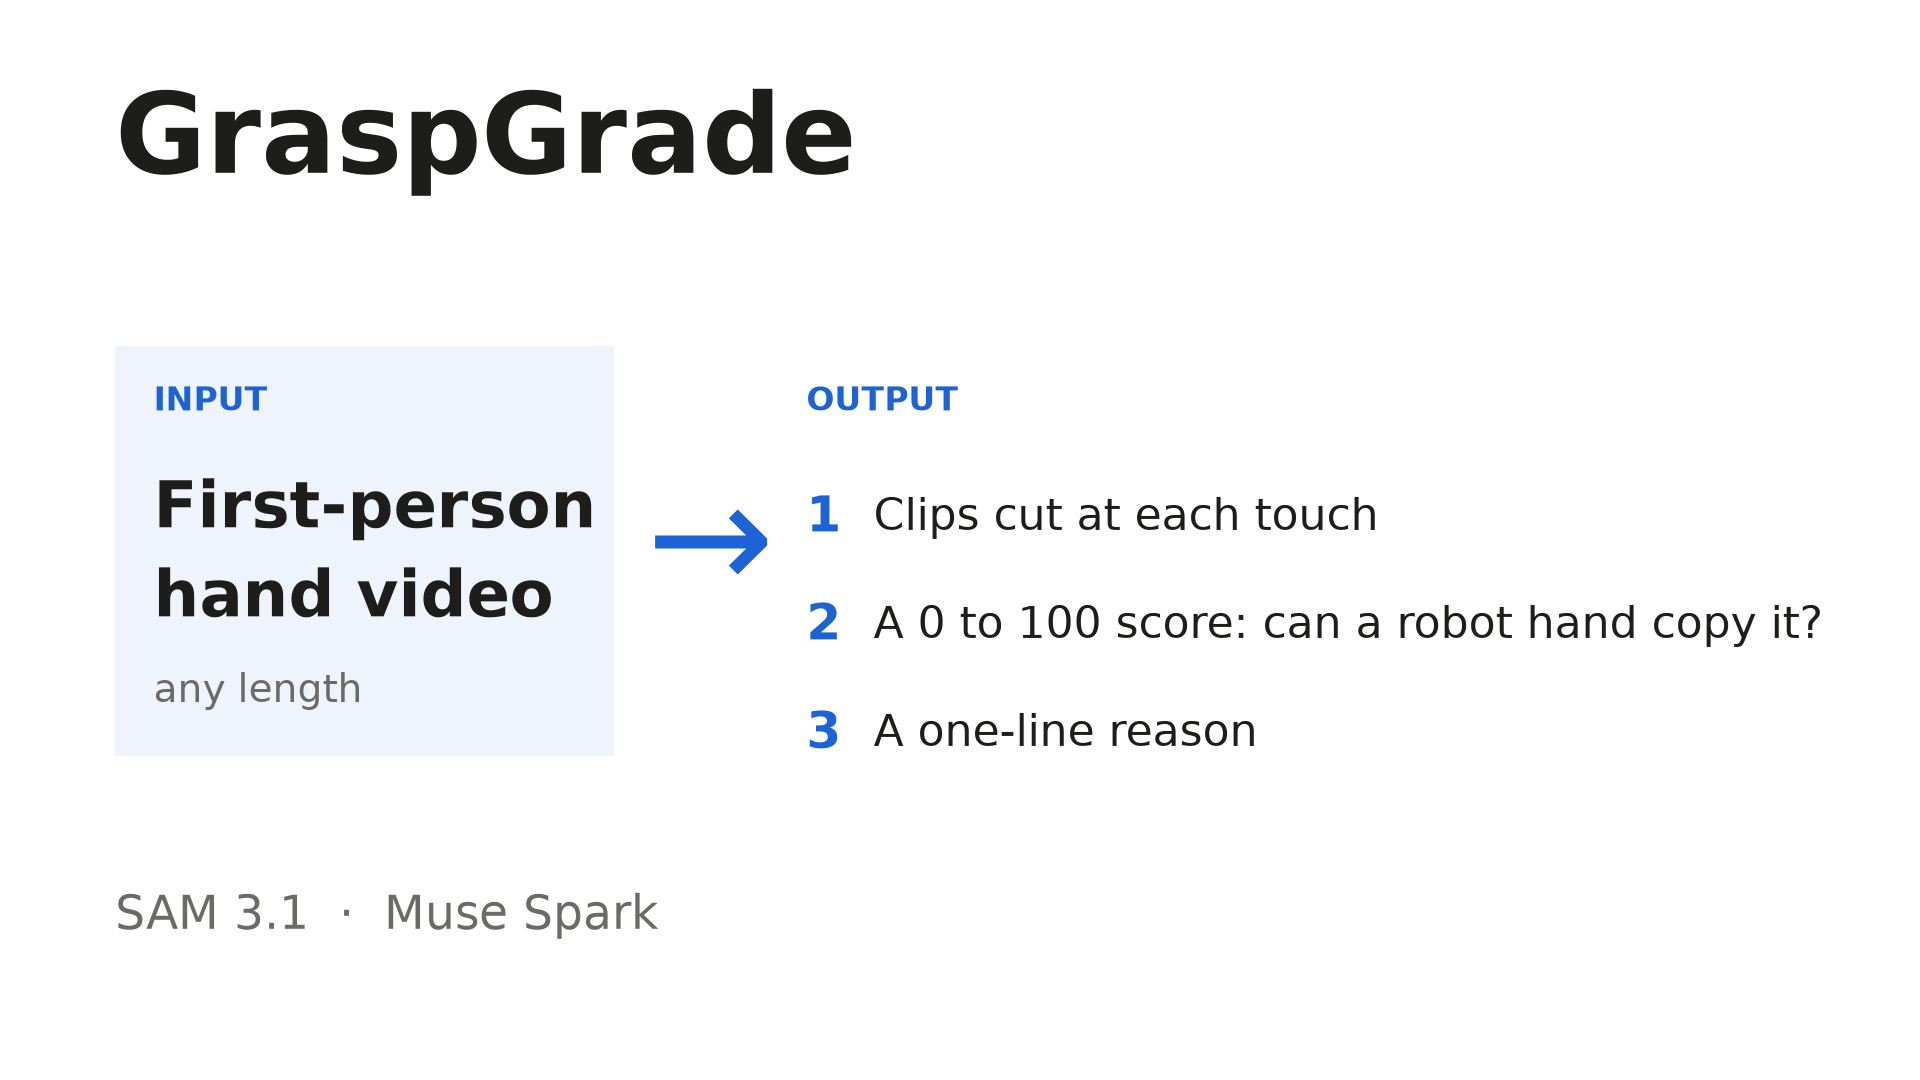
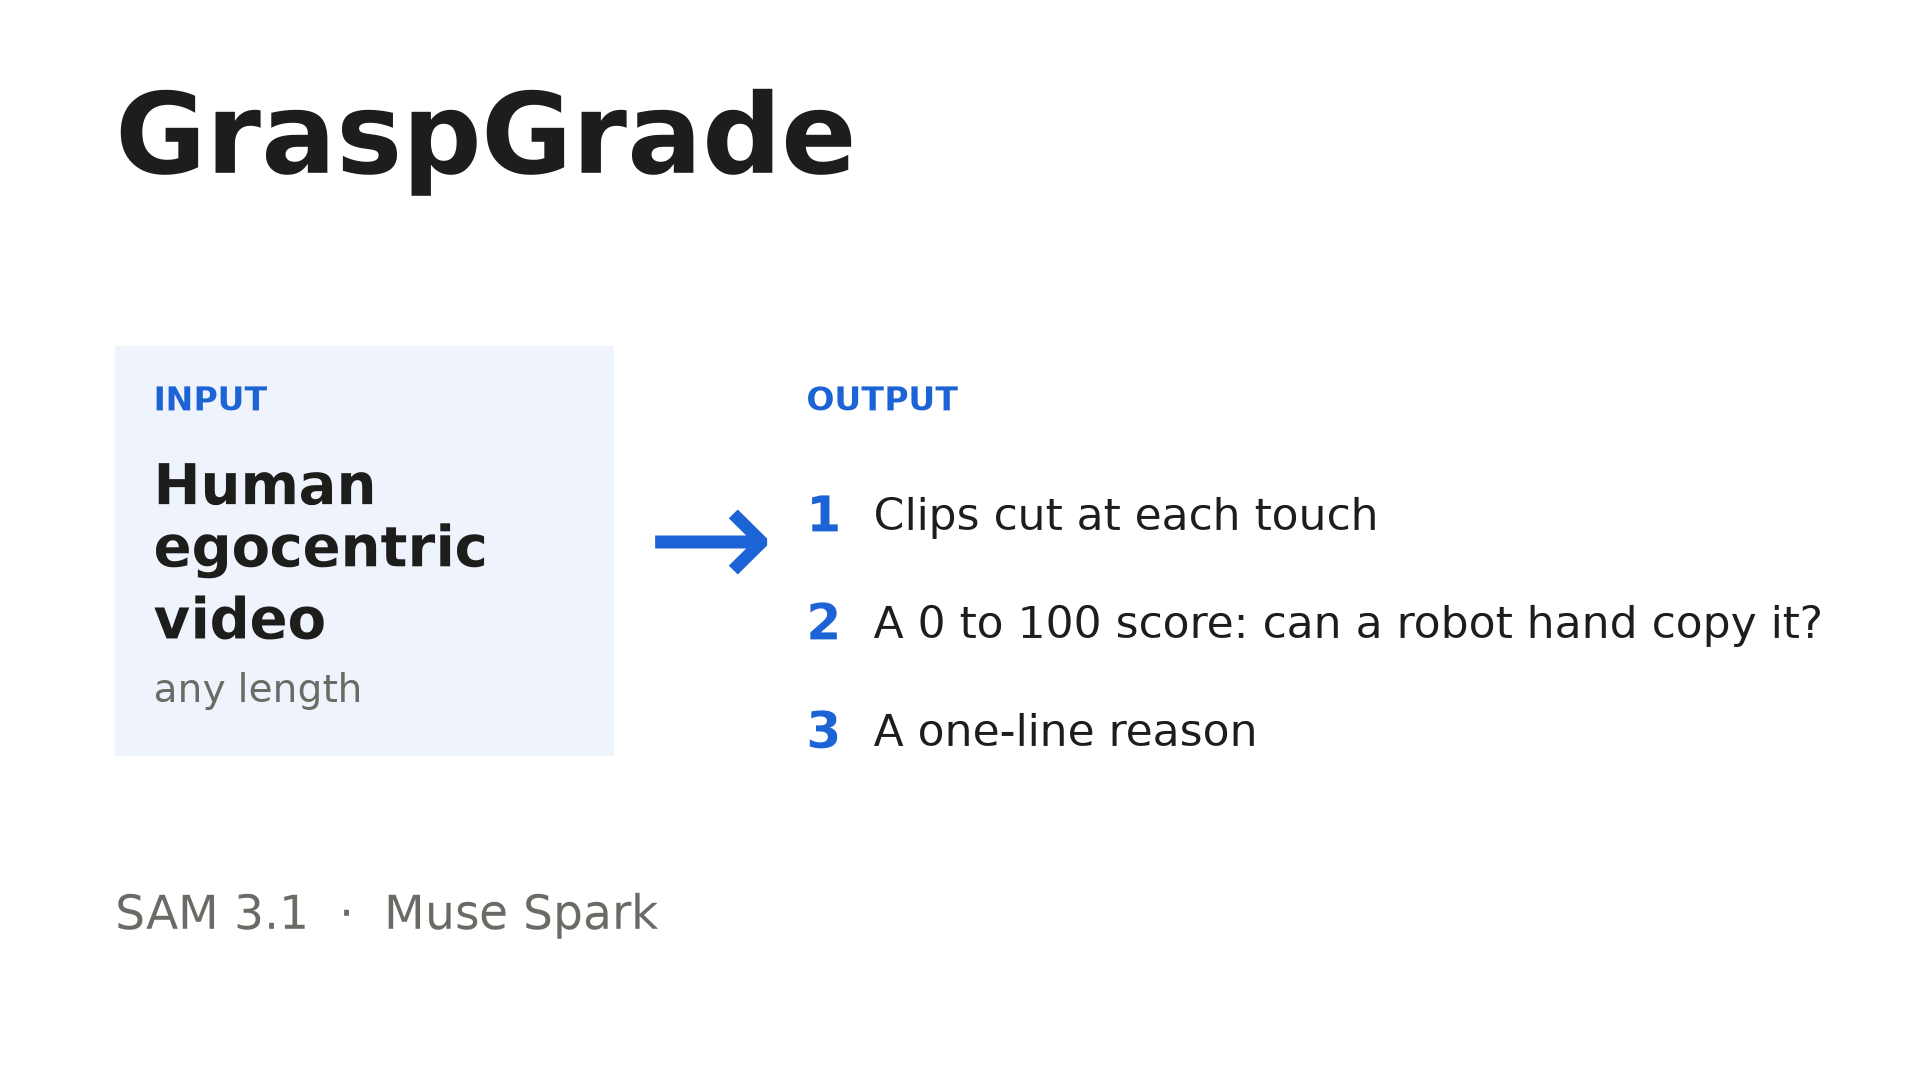
Say human egocentric video in English, and lead the opening card with Meta, Fourier in small type

Changed region(s): [[0.0625, 0.4278, 0.3125, 0.6111]]

diff --git a/web/index.html b/web/index.html
@@ -4094,7 +4094,7 @@ Answer with JSON only: {"copyable_probability": 0 to 100, "reason": "one short s
 
   <footer>
     영상 출처: OpenGraph Ego-Tactile (CC-BY-4.0)<br>
-    마지막 갱신 2026-11-03 11:33 KST
+    마지막 갱신 2026-11-03 11:38 KST
     <p class="demo-link"><a href="assets/video/graspgrade_demo_ko.mp4">3분 소개 영상 보기 →</a> · <a href="assets/video/graspgrade_demo.mp4">English</a></p>
     <p class="demo-link"><a href="logs.html">실험 기록 전체 보기 →</a></p>
   </footer>

diff --git a/web/tools/demo_video.py b/web/tools/demo_video.py
@@ -86,7 +86,7 @@ def header(d, left, right=None):
 # ---------------------------------------------------------------- words on screen
 TEXT = {
     "en": {
-        "news": ["Meta is building humanoid robots (reported)", "Meta × Fourier", "Humanoid robots, built together",
+        "news": ["Meta is building humanoid robots (reported)", "Meta", "with Fourier", "Building humanoid robots",
                  "Stand-in footage.", "Source: YouTube @Futur Decoded"],
         "news_cuts": ["Meta has"],
         "hw": ["The robot body is being built.", "What about the physical AI model that drives it?",
@@ -98,7 +98,7 @@ TEXT = {
                   [("Robot data is slow and costly", "Recorded by remote control, one robot at a time"),
                    ("A human hand is not a robot hand", "Each grasp must be moved onto the robot (retargeting)"),
                    ("Most hand video is not usable", "83 of 2,000 internet clips passed a quality check (Do as I Do)")]],
-        "s1_title": "First-person hand video: easy to collect, hard to choose",
+        "s1_title": "Human egocentric video: easy to collect, hard to choose",
         "future": ["Done in this hackathon, and next", "This hackathon", "Next",
                    [("Rigid objects (HOT3D)", "Touch check for soft objects (now 51.7%, rule 70%)"),
                     ("One robot hand, geometric check", "Physics-based retargeting and more robot hands"),
@@ -117,7 +117,7 @@ TEXT = {
         "hand": {"left": "left", "right": "right"}, "why": {}, "obj": {},
     },
     "ko": {
-        "news": ["Meta가 휴머노이드 로봇을 만들기 시작함 (보도)", "Meta × Fourier", "휴머노이드 로봇 공동 제작",
+        "news": ["Meta가 휴머노이드 로봇을 만들기 시작함 (보도)", "Meta", "Fourier와 함께", "휴머노이드 로봇 제작",
                  "대체 영상.", "출처: YouTube @Futur Decoded"],
         "news_cuts": ["메타가"],
         "hw": ["로봇의 몸은 만들어지고 있다.", "그런데 이 몸을 움직일 피지컬 AI 모델은?", "아직 매우 초기 단계다."],
@@ -175,9 +175,9 @@ NARRATION = {
         "0a": "So why is physical AI still so far from its GPT moment? Language models learned from the whole "
               "internet. Robots have no data at that scale. Robot data from remote control is slow and costly. A "
               "human hand is not a robot hand. And most hand video is not usable. This is where GraspGrade comes in.",
-        "0b": "First-person hand video is the easiest data to collect and grow. It has two problems: moving each "
+        "0b": "Human egocentric video is the easiest data to collect and grow. It has two problems: moving each "
               "grasp onto a robot hand, and choosing which videos are worth using. We solve the second problem.",
-        "2": "GraspGrade cuts first-person hand video into clips at each touch, and scores each clip from 0 to 100 "
+        "2": "GraspGrade cuts human egocentric video into clips at each touch, and scores each clip from 0 to 100 "
              "for how likely a robot hand can copy it. SAM 3.1 tracks the hands and objects. Muse Spark answers a "
              "short checklist. We check both steps against real sensor data.",
         "3a": "First, when does a touch start and end? The top track is a touch-sensing glove. Below it are Muse Spark "
@@ -398,14 +398,15 @@ def staged(images, times, name):
 
 
 def news_card():
-    """Meta and Fourier building humanoid robots, next to the stand-in footage."""
+    """Meta building humanoid robots (Fourier in small type), next to the stand-in footage."""
     im = canvas()
     d = ImageDraw.Draw(im)
-    title, big, line, note, source = T("news")
+    title, big, small, line, note, source = T("news")
     header(d, title)
     x = NEWS_X + NEWS_W + 120
-    d.text((x, 360), big, font=font(96, True), fill=INK)
-    d.text((x, 500), line, font=font(44), fill=INK2)
+    d.text((x, 320), big, font=font(120, True), fill=INK)
+    d.text((x + 4, 470), line, font=font(48, True), fill=INK2)
+    d.text((x + 6, 545), small, font=font(34), fill=MUTED)
     d.text((x, NEWS_Y + NEWS_H - 66), note, font=font(24), fill=MUTED)
     d.text((x, NEWS_Y + NEWS_H - 30), source, font=font(24), fill=MUTED)
     return im

diff --git a/scripts/demo_figures.py b/scripts/demo_figures.py
@@ -150,7 +150,7 @@ def cards():
     fig.text(0.06, 0.84, "GraspGrade", fontsize=80, fontweight="bold")
     box(fig, 0.06, 0.30, 0.26, 0.38, "#eef3fc")
     fig.text(0.08, 0.62, "INPUT", fontsize=24, color=HI, fontweight="bold")
-    fig.text(0.08, 0.49, "First-person\nhand video", fontsize=46, fontweight="bold", va="center", linespacing=1.3)
+    fig.text(0.08, 0.49, "Human\negocentric\nvideo", fontsize=40, fontweight="bold", va="center", linespacing=1.2)
     fig.text(0.08, 0.35, "any length", fontsize=28, color=MUTED)
     fig.text(0.37, 0.49, "→", fontsize=110, color=HI, ha="center", va="center")
     fig.text(0.42, 0.62, "OUTPUT", fontsize=24, color=HI, fontweight="bold")
